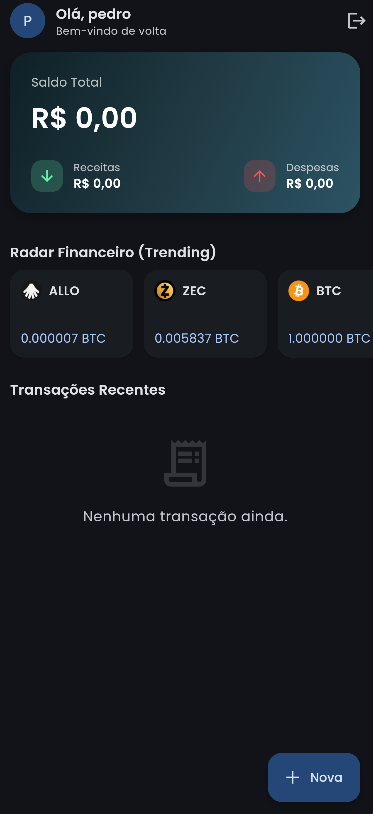
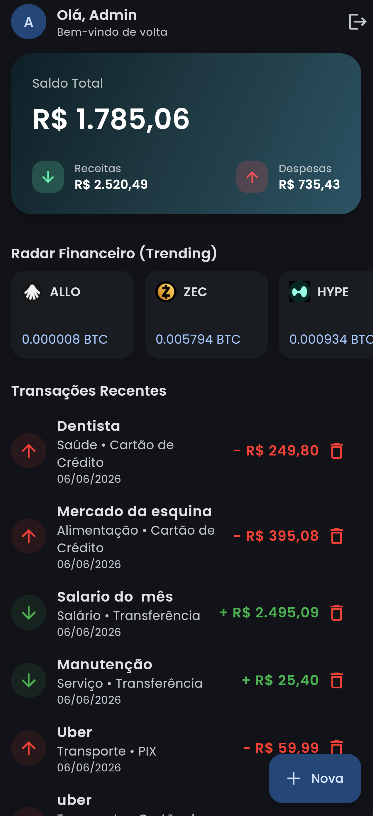
docs: update screenshots and add test credentials to README

diff --git a/lib/providers/transaction_provider.dart b/lib/providers/transaction_provider.dart
@@ -96,9 +96,14 @@ class TransactionNotifier extends StateNotifier<TransactionState> {
       // Na prática real, aqui compararíamos timestamps.
       // Para fins do projeto, garantimos que todas do firestore estão no local
       for (var doc in snapshot.docs) {
-        final tx = TransactionModel.fromMap(doc.data());
-        // Insert usa db.insert que lida com o ignore se já existir
-        await _repo.insertTransaction(tx);
+        try {
+          final Map<String, Object?> map = Map<String, Object?>.from(doc.data());
+          map['id'] = doc.id; // Garante que nunca teremos ID nulo
+          final tx = TransactionModel.fromMap(map);
+          await _repo.insertTransaction(tx);
+        } catch (e) {
+          print('Erro inserindo doc syncado: $e');
+        }
       }
       await _refreshLocalData(userId);
     } catch (e) {

diff --git a/lib/data/repositories/transaction_repository.dart b/lib/data/repositories/transaction_repository.dart
@@ -1,3 +1,4 @@
+import 'package:sqflite/sqflite.dart';
 import '../database/database_helper.dart';
 import '../models/transaction_model.dart';
 
@@ -12,7 +13,11 @@ class TransactionRepository {
 
   Future<void> insertTransaction(TransactionModel transaction) async {
     final db = await _dbHelper.database;
-    await db.insert('transactions', transaction.toMap());
+    await db.insert(
+      'transactions',
+      transaction.toMap(),
+      conflictAlgorithm: ConflictAlgorithm.replace,
+    );
   }
 
   Future<void> updateTransaction(TransactionModel transaction) async {

diff --git a/README.md b/README.md
@@ -66,4 +66,13 @@ flutter run
 ```bash
 flutter build apk --release
 ```
+
+### 🔐 Credenciais de Acesso para Teste (Avaliador)
+* **E-mail:** `admin@gmail.com`
+* **Senha:** `admin1`
+
+### 🌐 Para rodar na Web via GitHub Codespaces
+```bash
+flutter run -d web-server --web-port 8080 --web-hostname 0.0.0.0
+```
 *O arquivo será gerado no diretório: `build/app/outputs/flutter-apk/app-release.apk`*
